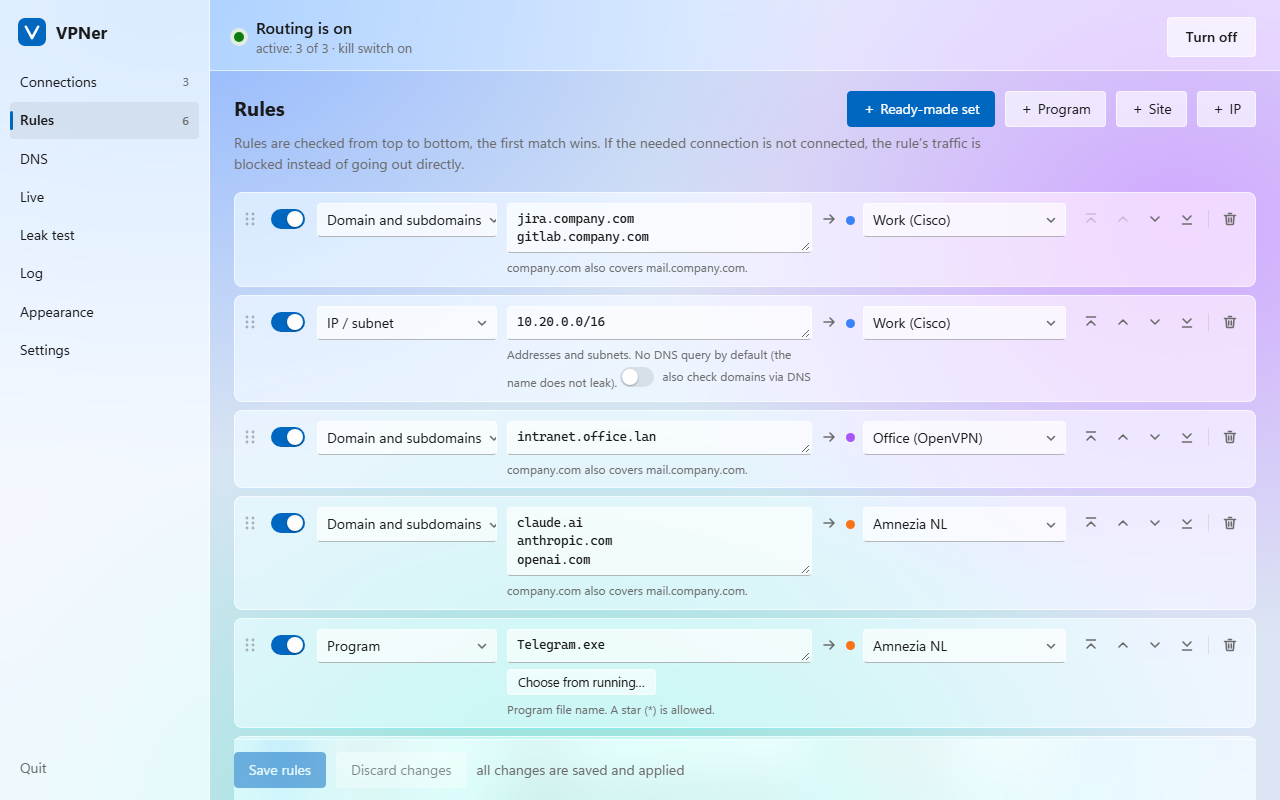
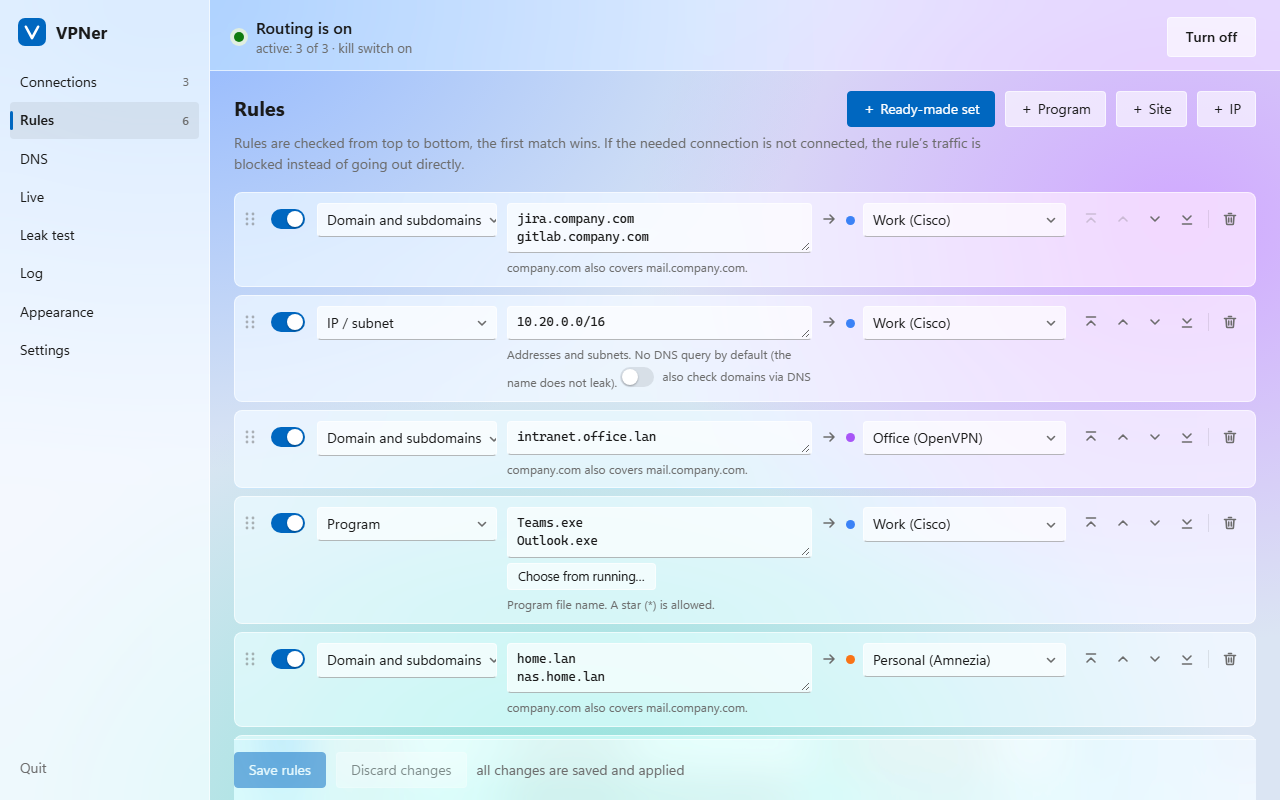
docs: describe VPNer as a tool for work and use the Boosty donate link
README examples, screenshots and input placeholders now show work and home-network routing; the support links point to the Boosty donation page.

diff --git a/internal/web/index.html b/internal/web/index.html
@@ -796,14 +796,14 @@ function addPreset() {
 }
 
 const KINDS = [
-  ["process", tr("ui.program"), "chrome.exe\nTelegram.exe\nwork-*.exe", tr("ui.programFileNameStarIs")],
+  ["process", tr("ui.program"), "chrome.exe\nTeams.exe\nwork-*.exe", tr("ui.programFileNameStarIs")],
   ["process-path", tr("ui.programPath"), "C:\\Program Files\\Company\\*", tr("ui.fullPathStarMatchesAnything")],
-  ["domain-suffix", tr("ui.domainAndSubdomains"), "company.com\nyoutube.com", tr("ui.companyComAlsoCoversMail")],
+  ["domain-suffix", tr("ui.domainAndSubdomains"), "company.com\nclient.org", tr("ui.companyComAlsoCoversMail")],
   ["domain", tr("ui.exactDomain"), "chat.example.com", tr("ui.onlyThisDomainWithoutSubdomains")],
   ["domain-keyword", tr("ui.domainContains"), "google", tr("ui.anyDomainThatContainsWord")],
   ["domain-regex", tr("ui.domainRegex"), "^api\\d+\\.example\\.com$", tr("ui.regularExpression")],
   ["ip-cidr", tr("ui.ipSubnet"), "10.0.0.0/8\n192.168.50.10", tr("ui.addressesAndSubnetsNoDns")],
-  ["geosite", tr("ui.siteCategory"), "youtube\ntelegram\ngoogle\nopenai", tr("ui.readyMadeDomainListsGeosite")],
+  ["geosite", tr("ui.siteCategory"), "microsoft\ngithub\ngoogle", tr("ui.readyMadeDomainListsGeosite")],
   ["geoip", tr("ui.ipCountry"), "RU", tr("ui.countryCodeRuUsDe")],
   ["dst-port", tr("ui.destinationPort"), "25\n6881-6889", tr("ui.portOrRange")],
   ["network", tr("ui.protocol"), "udp", tr("ui.tcpOrUdp")],

diff --git a/README.ru.md b/README.ru.md
@@ -17,11 +17,11 @@
 
 ## Что это
 
-Корпоративный Cisco для работы, OpenVPN другого заказчика, AmneziaWG для всего остального — обычно такие VPN дерутся за маршруты, DNS и kill-switch, а трафик одного утекает через другой. VPNer держит их **рядом и изолированно** и направляет трафик по вашим правилам:
+Корпоративный Cisco для работы, OpenVPN в сеть заказчика, свой WireGuard или AmneziaWG до домашней сети или серверов — обычно такие VPN дерутся за маршруты, DNS и kill-switch, а трафик одного утекает через другой. VPNer держит их **рядом и изолированно** и направляет трафик по вашим правилам:
 
-- `jira.company.com`, `10.20.0.0/16` → рабочий Cisco;
+- `jira.company.com`, `10.20.0.0/16`, `Teams.exe` → рабочий Cisco;
 - `intranet.office.lan` → офисный OpenVPN;
-- `claude.ai`, `Telegram.exe`, категория `youtube` → Amnezia;
+- `nas.home.lan`, `192.168.50.0/24` → ваш личный VPN;
 - всё остальное → напрямую.
 
 Если VPN отвалился, его правила **блокируют** трафик, а не выпускают его напрямую.
@@ -32,7 +32,7 @@
   - **встроенные:** WireGuard, AmneziaWG (включая 2.0 и ключ полного доступа к своему серверу Amnezia), VLESS/Reality, VMess, Trojan, Shadowsocks, Hysteria2, TUIC;
   - **в изолированных контейнерах WSL:** Cisco AnyConnect / Secure Client (OpenConnect), GlobalProtect, Fortinet, Pulse/Ivanti, F5, OpenVPN;
   - **в виртуалке Hyper-V:** любая оригинальная VPN-программа (AmneziaVPN, Cisco Secure Client, клиенты провайдеров).
-- **Правила:** по программе, пути к программе, домену, домену с поддоменами, слову, регулярному выражению, IP/подсети, категории сайтов (geosite), стране IP, порту и протоколу. Готовые наборы (ИИ-сервисы, YouTube, Telegram, Discord, Meta, X), перетаскивание, проверка «куда пойдёт?».
+- **Правила:** по программе, пути к программе, домену, домену с поддоменами, слову, регулярному выражению, IP/подсети, категории сайтов (geosite), стране IP, порту и протоколу. Готовые наборы популярных сервисов, перетаскивание, проверка «куда пойдёт?».
 - **DNS:** DoH, DoH3, DoT, DoQ, UDP/TCP и системный; каждый сервер можно пустить напрямую или **через любой VPN**; правила DNS для доменов; FakeIP, чтобы DNS не утекал.
 - **Вход:** сохранённые пароли (шифруются DPAPI), коды MFA, push-подтверждения (Duo, Telegram-боты…), SAML/SSO в браузере. Корпоративные VPN входят по очереди, чтобы их push-запросы не мешали друг другу; простаивающие сессии поддерживаются.
 - **Импорт:** ключ `vpn://`, `.conf`, `.ovpn`, ссылки, подписки (Happ, v2rayN, Hiddify, Clash), целый конфиг Clash/mihomo или профиль VPNer.
@@ -131,14 +131,14 @@ powershell -ExecutionPolicy Bypass -File build.ps1
 
 ## Об авторе
 
-**programmer2005** — обычный студент. Для работы понадобилось держать несколько VPN сразу: корпоративные и свой личный, чтобы пользоваться нейросетями. Они постоянно конфликтовали между собой — так и появился VPNer.
+**programmer2005** — обычный студент. Для работы понадобилось держать несколько VPN сразу: пару корпоративных и свой личный. Они постоянно конфликтовали между собой — так и появился VPNer.
 
 - Telegram: [@programmer2005](https://t.me/programmer2005)
 - GitHub: [progr4mmer2005](https://github.com/progr4mmer2005)
 
 ## Поддержать проект
 
-Если VPNer экономит вам время, поддержать разработку можно на **[Boosty](https://boosty.to/programmer2005)** — любая сумма помогает.
+Если VPNer экономит вам время, поддержать разработку можно на **[Boosty](https://boosty.to/programmer2005/donate)** — любая сумма помогает.
 
 ## Статус проекта
 

diff --git a/README.md b/README.md
@@ -17,11 +17,11 @@ Every program, site and IP goes through the connection you choose.
 
 ## What it is
 
-Corporate Cisco for work, OpenVPN for another client, AmneziaWG for everything else — normally these VPNs fight over routes, DNS and kill switches, and traffic of one leaks through another. VPNer runs them **side by side, each in isolation**, and sends traffic by your rules:
+A corporate Cisco for your job, OpenVPN into a client's network, your own WireGuard or AmneziaWG to your home network or servers — normally these VPNs fight over routes, DNS and kill switches, and traffic of one leaks through another. VPNer runs them **side by side, each in isolation**, and sends traffic by your rules:
 
-- `jira.company.com`, `10.20.0.0/16` → the work Cisco;
+- `jira.company.com`, `10.20.0.0/16`, `Teams.exe` → the work Cisco;
 - `intranet.office.lan` → the office OpenVPN;
-- `claude.ai`, `Telegram.exe`, the `youtube` category → Amnezia;
+- `nas.home.lan`, `192.168.50.0/24` → your personal VPN;
 - everything else → directly.
 
 If a VPN goes down, its rules **block** traffic instead of letting it out directly.
@@ -32,7 +32,7 @@ If a VPN goes down, its rules **block** traffic instead of letting it out direct
   - **built in:** WireGuard, AmneziaWG (including 2.0 and the full access key of your own Amnezia server), VLESS/Reality, VMess, Trojan, Shadowsocks, Hysteria2, TUIC;
   - **in isolated WSL containers:** Cisco AnyConnect / Secure Client (OpenConnect), GlobalProtect, Fortinet, Pulse/Ivanti, F5, OpenVPN;
   - **in a Hyper-V virtual machine:** any original VPN app (AmneziaVPN, Cisco Secure Client, provider clients).
-- **Rules:** by program, program path, domain, domain suffix, keyword, regex, IP/subnet, site category (geosite), IP country, port and protocol. Ready-made sets (AI services, YouTube, Telegram, Discord, Meta, X), drag & drop ordering, a "where will it go?" check.
+- **Rules:** by program, program path, domain, domain suffix, keyword, regex, IP/subnet, site category (geosite), IP country, port and protocol. Ready-made sets of popular services, drag & drop ordering, a "where will it go?" check.
 - **DNS:** DoH, DoH3, DoT, DoQ, UDP/TCP and the system resolver; each server can go directly or **through any VPN**; per-domain DNS rules; FakeIP so that DNS never leaks.
 - **Logins:** saved passwords (encrypted with DPAPI), MFA codes, push confirmations (Duo, Telegram bots…), SAML/SSO in the browser. Corporate VPNs log in one at a time, so their push requests do not collide; idle sessions are kept alive.
 - **Import:** a `vpn://` key, `.conf`, `.ovpn`, share links, subscriptions (Happ, v2rayN, Hiddify, Clash), a whole Clash/mihomo config, or a VPNer profile.
@@ -131,14 +131,14 @@ The script downloads a pinned Go toolchain into `.tools`, builds the Linux agent
 
 ## Author
 
-**programmer2005** — just a student who needed several VPNs at once for work: corporate ones plus a personal one for AI services. They kept conflicting with each other, and that is how VPNer appeared.
+**programmer2005** — just a student who needed several VPNs at once for work: a few corporate ones plus a personal one. They kept conflicting with each other, and that is how VPNer appeared.
 
 - Telegram: [@programmer2005](https://t.me/programmer2005)
 - GitHub: [progr4mmer2005](https://github.com/progr4mmer2005)
 
 ## Support the project
 
-If VPNer saves you time, you can support its development on **[Boosty](https://boosty.to/programmer2005)** — any amount helps.
+If VPNer saves you time, you can support its development on **[Boosty](https://boosty.to/programmer2005/donate)** — any amount helps.
 
 ## Project status
 
